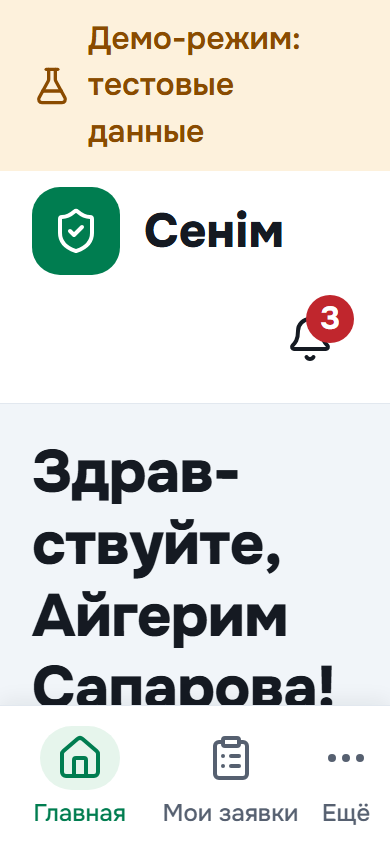
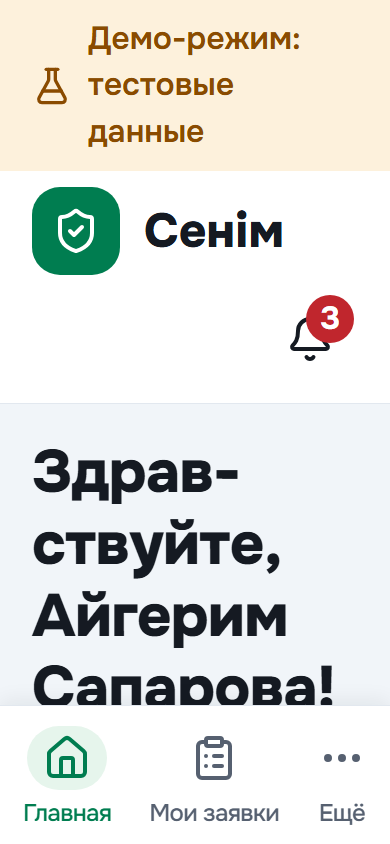
docs(design): скриншоты мастера и экранов заказчика, отступления от макетов 7–10
Почему: встреча 31.10, п. 1 и 4 — показать, как простой мастер заявки и
экраны заказчика легли на макеты, и записать, где и почему отступили.

Что:
- capture-wizard.mjs проходит мастер и снимает 7 экранов на 390 и 1280;
- capture.mjs: «Вдохновение», заявка с откликами, карточка отклика,
  согласие на договор, «Мой заказ» у заказчика и исполнителя, завершённая
  сделка с фото; ONLY= для части экранов, нижняя панель скрыта на снимках
  всей страницы телефона;
- README: таблица скриншотов и отступления (вилка цены, примеры стилей,
  вкладки макетов 7–8, дата доставки стр. 10, «защищённый счёт» и др.);
- PROGRESS: пункт встречи 1 отмечен.

Как проверено: снимки сделаны на демо-данных (DEMO_MODE=true) и
просмотрены; lint.

diff --git a/docs/design/README.md b/docs/design/README.md
@@ -118,6 +118,22 @@
 | Подпись через TrustMe (стр. 16) | ЭЦП НУЦ РК через SIGEX | решение раздела 2 задания |
 | Фото интерьеров | иллюстрации `public/img/*.svg` | фото основателей не переданы файлами, из интернета не скачиваем; места под фото — те же размеры, замена — заменой файлов |
 | Подсветка чата «Пишет…», голосовые | нет | вне объёма MVP |
+| Нижняя панель: ячейки равной ширины | ячейка по ширине подписи плюс равная доля остатка, зазор 4 px | на 390 px «Вдохновение» шире равной ячейки и сливалось с «Мои заявки»; шрифт подписей прежний (16 px) |
+| Мастер заявки по старым макетам (стиль названиями, фасады, столешница, фурнитура) | 7 экранов: «Что нужно?» плитками, «Какой примерно вид?» примерами-картинками, размеры с «Не знаю — уточнит замер», уровень, фото и описание, где и когда, проверка | встреча 31.10, п. 1: заказывает человек, который не разбирается в мебели. Материалы в мастере не спрашиваем — их подскажет исполнитель (или перенесёт помощник ИИ) |
+| Вилка цены у уровня (старый макет 0752) | «Обычно на Сенім: от … до …» по настоящим откликам на заявки того же типа мебели (средняя половина цен, от трёх откликов); иначе «Цену назовут исполнители» | своих вилок у площадки нет, цифры не выдумываем; владелец может задать вилки в вертикали |
+| Примеры стилей — фото интерьеров | фото работ того же типа из «Вдохновения», иначе иллюстрация стиля из демо-портфолио | фото основателей не переданы файлами |
+| «Вдохновение»: плитки 4:5, фото во всю ширину | `PhotoCard` 4:3, «Подборка Сенім» меткой у заголовка | один компонент карточки на всех экранах; белый текст и метки поверх фото не используем |
+| Стр. 7: вкладки «Все / Новые / В чате / Замер / Договор» | чипы Все, Черновики, Ждут откликов, Выбран исполнитель, Договор, Отменённые; пустые скрыты | разделы по статусам заявки; отдельного статуса «в чате» нет |
+| Стр. 7: время сообщения и «Пишет…» в карточке обращения | уровень, число откликов, дата отправки | в списке заявок нет данных чата |
+| Стр. 7: выбор даты замера сеткой дней и времени | нет | замер назначает исполнитель (его экраны) |
+| Стр. 8: детали проекта во вкладках «Материалы / Эскизы / Чертежи / Комплектация», 3D | одна страница: материалы текстом, итоговая стоимость с расшифровкой, плитки срока и гарантии | в проекте нет эскизов, чертежей и 3D; вкладки заменены длинной страницей (раздел 6 задания) |
+| Стр. 9: «Безопасная оплата» в договоре | «Оплата по этапам под контролем»; «Безопасная оплата через банк» — только в режиме банка | режим `manual` |
+| Стр. 10, экран 4: выбор даты и времени доставки и монтажа | нет | в модели нет даты доставки; доставка и монтаж — этапы договора |
+| Стр. 10: «Посмотреть этапы» — зелёная кнопка; «Этапы изготовления», «Детали заказа» — отдельные экраны | белая с зелёной рамкой, ведёт к разделу «Этапы работ»; разделы одной длинной страницы | одно главное действие — следующий шаг сделки в «Что дальше»; без вкладок и лишних переходов |
+| Стр. 10: «Средства на защищённом счёте» | в `manual` — «Оплата по этапам под контролем», «Оплачено исполнителю», «Осталось оплатить»; «счёт сделки» — только в эскроу | деньги не проходят через площадку |
+| Стр. 10: «Плановая готовность 25 апр.» | срок договора от подписания (в эскроу — от пополнения счёта); нет даты начала — строки нет | отдельной даты готовности в модели нет |
+| Стр. 10: «Мой заказ», «Мебель Сити», «Написать производителю» | h1 «Сделка №N», «Исполнитель №N», «Написать исполнителю / заказчику»; кнопки звонка нет | глоссарий и e2e; имя — по ADR-006; телефон не раскрывается |
+| Стр. 10, экран 3: документ «Эскизы и чертежи» | только договор и акты этапов | других документов в модели сделки нет |
 
 ## Скриншоты
 
@@ -127,6 +143,7 @@
 ```bash
 DATABASE_URL=postgresql://postgres:postgres@localhost:5442/senim DEMO_MODE=true npx next dev -p 3120
 BASE_URL=http://localhost:3120 node docs/design/screens/capture.mjs
+BASE_URL=http://localhost:3120 node docs/design/screens/capture-wizard.mjs
 ```
 
 | Файл | Экран | Сравнить с макетом |
@@ -138,6 +155,16 @@ BASE_URL=http://localhost:3120 node docs/design/screens/capture.mjs
 | `executor-home-390/1280` | главная исполнителя | 12 |
 | `executor-incoming-390/1280` | «Заявки» исполнителя | 13 |
 | `ui-kit-390/1280` | витрина компонентов | — |
+| `wizard-1-type` … `wizard-7-send` (390/1280) | мастер заявки по шагам, страница целиком (снимает `capture-wizard.mjs`, создаёт черновик у Данияра) | старые 0726, 0782, 0752; встреча п. 1 |
+| `inspiration-390/1280` | «Вдохновение» | 7–19 (стиль) |
+| `client-request-offers-390/1280` | заявка №19: шкала сценария, отклики, сравнение | 7, старый 0783 |
+| `client-offer-390/1280` | карточка отклика одной страницей | старый 0823 |
+| `client-request-contract-390/1280` | заявка №24 (договор до замера): согласие на договор | 9, экран 1 |
+| `deal-client-390/1280`, `deal-executor-390/1280` | «Мой заказ» — сделка №11 у заказчика и исполнителя | 10 |
+| `deal-done-photos-390/1280` | завершённая сделка №7 с фотоотчётами | 10, 11 |
+
+Новые экраны на телефоне сняты страницей целиком, нижняя панель на таких снимках скрыта (иначе она ложится поверх
+середины). `ONLY=<регулярка имени>` снимает часть экранов.
 
 ## Что дальше
 
@@ -145,4 +172,6 @@ BASE_URL=http://localhost:3120 node docs/design/screens/capture.mjs
 - Экраны других зон переходят на `PhotoCard`, `FilterChips`, `Timeline` по мере работы их владельцев (например,
   фильтры входящих заявок исполнителя пока своей разметкой).
 - Экран «Финансы» исполнителя.
+- Вилки цены по уровням от владельца (сейчас — только по настоящим откликам, при трёх и больше).
+- Экран «Утверждение проекта» в демо-данных: нет заявки с проектом на решении заказчика — появится после шагов e2e 04.
 - Значок приложения (`src/app/icon.svg`, `public/icons/*`) — ещё прежнего тёмно-зелёного цвета.

diff --git a/docs/PROGRESS.md b/docs/PROGRESS.md
@@ -57,7 +57,7 @@
 - [x] Исполнитель: имя скрыто / показано (переключатель) и адрес мастерской (№6, ADR-006)
 - [x] Оператор снимает блокировку повторного отклика (№16) и закрывает чат после сделки (№19)
 - [ ] Стилистический рефакторинг по макетам 7–19 и упрощение дизайна (встреча п. 4)
-- [ ] Простое создание заявки для человека, который не разбирается в мебели (встреча п. 1)
+- [x] Простое создание заявки для человека, который не разбирается в мебели (встреча п. 1): мастер на картинках — «Что нужно?» плитками, «Какой примерно вид?» примерами из «Вдохновения», размеры «не знаю — уточнит замер» (в онлайн-замере обязательны), уровень с объяснением и вилкой по настоящим откликам, фото и описание, где и когда, проверка; черновики, «Хочу похожее», помощник ИИ сохранены. Экраны заказчика (заявки, отклики, проект, договор) и «Мой заказ» — в стиле макетов 7–10 (`docs/design/README.md`)
 - [x] «Вдохновение» — примеры в духе Pinterest/Instagram (встреча п. 2): `/inspiration` — лента плиткой, чипы типа и стиля, «Показать ещё», карточка с «Хочу похожее» (существующий механизм `?like=`), «Подборка Сенім» ведёт оператор на карточке работы
 - [x] Портфолио мастера из итоговых фото сделок с отметкой места (встреча п. 3): «Добавить в портфолио» на экране завершённой сделки (`/executor/portfolio/from-deal/[dealId]`), показ только с согласия заказчика (галочка в отзыве или на экране сделки, отзывается там же), пометка «Выполнено на Сенім» и ссылка на отзыв
 
